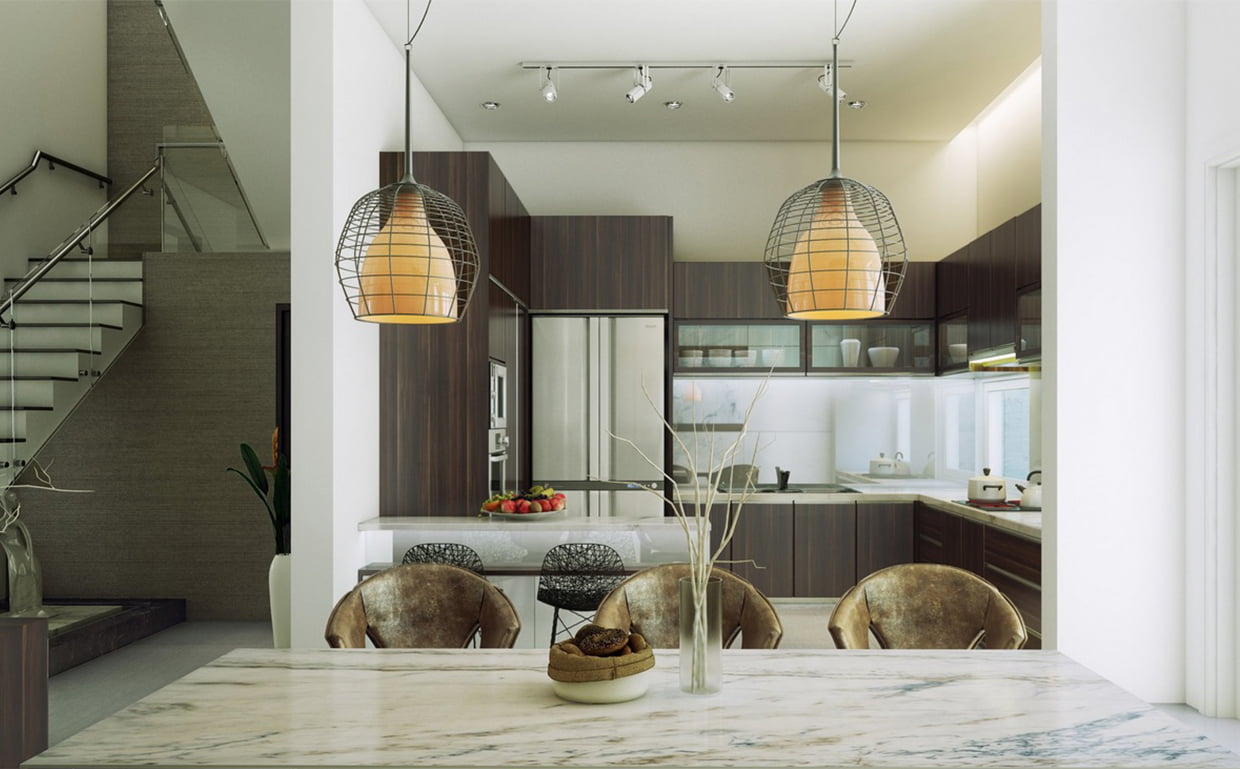
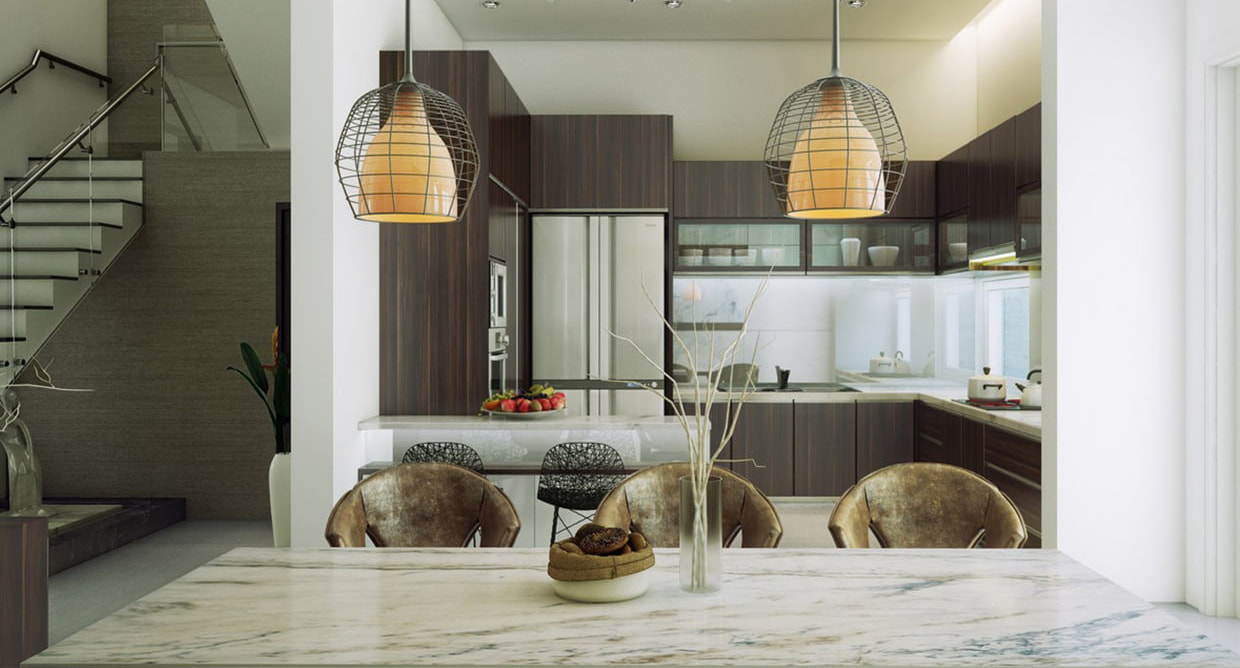
add main slider html, some styles and js code for slider

diff --git a/app/css/style.min.css b/app/css/style.min.css
@@ -1,1 +1,1 @@
-/*! normalize.css v8.0.1 | MIT License | github.com/necolas/normalize.css */html{line-height:1.15;-webkit-text-size-adjust:100%}body{margin:0}main{display:block}h1{font-size:2em;margin:0.67em 0}hr{box-sizing:content-box;height:0;overflow:visible}pre{font-family:monospace, monospace;font-size:1em}a{background-color:transparent}abbr[title]{border-bottom:none;text-decoration:underline;-webkit-text-decoration:underline dotted;text-decoration:underline dotted}b,strong{font-weight:bolder}code,kbd,samp{font-family:monospace, monospace;font-size:1em}small{font-size:80%}sub,sup{font-size:75%;line-height:0;position:relative;vertical-align:baseline}sub{bottom:-0.25em}sup{top:-0.5em}img{border-style:none}button,input,optgroup,select,textarea{font-family:inherit;font-size:100%;line-height:1.15;margin:0}button,input{overflow:visible}button,select{text-transform:none}button,[type="button"],[type="reset"],[type="submit"]{-webkit-appearance:button}button::-moz-focus-inner,[type="button"]::-moz-focus-inner,[type="reset"]::-moz-focus-inner,[type="submit"]::-moz-focus-inner{border-style:none;padding:0}button:-moz-focusring,[type="button"]:-moz-focusring,[type="reset"]:-moz-focusring,[type="submit"]:-moz-focusring{outline:1px dotted ButtonText}fieldset{padding:0.35em 0.75em 0.625em}legend{box-sizing:border-box;color:inherit;display:table;max-width:100%;padding:0;white-space:normal}progress{vertical-align:baseline}textarea{overflow:auto}[type="checkbox"],[type="radio"]{box-sizing:border-box;padding:0}[type="number"]::-webkit-inner-spin-button,[type="number"]::-webkit-outer-spin-button{height:auto}[type="search"]{-webkit-appearance:textfield;outline-offset:-2px}[type="search"]::-webkit-search-decoration{-webkit-appearance:none}::-webkit-file-upload-button{-webkit-appearance:button;font:inherit}details{display:block}summary{display:list-item}template{display:none}[hidden]{display:none}.slick-slider{position:relative;display:block;box-sizing:border-box;-webkit-user-select:none;-moz-user-select:none;-ms-user-select:none;user-select:none;-webkit-touch-callout:none;-khtml-user-select:none;touch-action:pan-y;-webkit-tap-highlight-color:transparent}.slick-list{position:relative;display:block;overflow:hidden;margin:0;padding:0}.slick-list:focus{outline:none}.slick-list.dragging{cursor:pointer;cursor:hand}.slick-slider .slick-track,.slick-slider .slick-list{transform:translate3d(0, 0, 0)}.slick-track{position:relative;top:0;left:0;display:block;margin-left:auto;margin-right:auto}.slick-track:before,.slick-track:after{display:table;content:''}.slick-track:after{clear:both}.slick-loading .slick-track{visibility:hidden}.slick-slide{display:none;float:left;height:100%;min-height:1px}[dir='rtl'] .slick-slide{float:right}.slick-slide img{display:block}.slick-slide.slick-loading img{display:none}.slick-slide.dragging img{pointer-events:none}.slick-initialized .slick-slide{display:block}.slick-loading .slick-slide{visibility:hidden}.slick-vertical .slick-slide{display:block;height:auto;border:1px solid transparent}.slick-arrow.slick-hidden{display:none}.mfp-bg{top:0;left:0;width:100%;height:100%;z-index:1042;overflow:hidden;position:fixed;background:#0b0b0b;opacity:0.8}.mfp-wrap{top:0;left:0;width:100%;height:100%;z-index:1043;position:fixed;outline:none !important;-webkit-backface-visibility:hidden}.mfp-container{text-align:center;position:absolute;width:100%;height:100%;left:0;top:0;padding:0 8px;box-sizing:border-box}.mfp-container:before{content:'';display:inline-block;height:100%;vertical-align:middle}.mfp-align-top .mfp-container:before{display:none}.mfp-content{position:relative;display:inline-block;vertical-align:middle;margin:0 auto;text-align:left;z-index:1045}.mfp-inline-holder .mfp-content,.mfp-ajax-holder .mfp-content{width:100%;cursor:auto}.mfp-ajax-cur{cursor:progress}.mfp-zoom-out-cur,.mfp-zoom-out-cur .mfp-image-holder .mfp-close{cursor:zoom-out}.mfp-zoom{cursor:pointer;cursor:zoom-in}.mfp-auto-cursor .mfp-content{cursor:auto}.mfp-close,.mfp-arrow,.mfp-preloader,.mfp-counter{-webkit-user-select:none;-moz-user-select:none;-ms-user-select:none;user-select:none}.mfp-loading.mfp-figure{display:none}.mfp-hide{display:none !important}.mfp-preloader{color:#CCC;position:absolute;top:50%;width:auto;text-align:center;margin-top:-0.8em;left:8px;right:8px;z-index:1044}.mfp-preloader a{color:#CCC}.mfp-preloader a:hover{color:#FFF}.mfp-s-ready .mfp-preloader{display:none}.mfp-s-error .mfp-content{display:none}button.mfp-close,button.mfp-arrow{overflow:visible;cursor:pointer;background:transparent;border:0;-webkit-appearance:none;display:block;outline:none;padding:0;z-index:1046;box-shadow:none;touch-action:manipulation}button::-moz-focus-inner{padding:0;border:0}.mfp-close{width:44px;height:44px;line-height:44px;position:absolute;right:0;top:0;text-decoration:none;text-align:center;opacity:0.65;padding:0 0 18px 10px;color:#FFF;font-style:normal;font-size:28px;font-family:Arial, Baskerville, monospace}.mfp-close:hover,.mfp-close:focus{opacity:1}.mfp-close:active{top:1px}.mfp-close-btn-in .mfp-close{color:#333}.mfp-image-holder .mfp-close,.mfp-iframe-holder .mfp-close{color:#FFF;right:-6px;text-align:right;padding-right:6px;width:100%}.mfp-counter{position:absolute;top:0;right:0;color:#CCC;font-size:12px;line-height:18px;white-space:nowrap}.mfp-arrow{position:absolute;opacity:0.65;margin:0;top:50%;margin-top:-55px;padding:0;width:90px;height:110px;-webkit-tap-highlight-color:transparent}.mfp-arrow:active{margin-top:-54px}.mfp-arrow:hover,.mfp-arrow:focus{opacity:1}.mfp-arrow:before,.mfp-arrow:after{content:'';display:block;width:0;height:0;position:absolute;left:0;top:0;margin-top:35px;margin-left:35px;border:medium inset transparent}.mfp-arrow:after{border-top-width:13px;border-bottom-width:13px;top:8px}.mfp-arrow:before{border-top-width:21px;border-bottom-width:21px;opacity:0.7}.mfp-arrow-left{left:0}.mfp-arrow-left:after{border-right:17px solid #FFF;margin-left:31px}.mfp-arrow-left:before{margin-left:25px;border-right:27px solid #3F3F3F}.mfp-arrow-right{right:0}.mfp-arrow-right:after{border-left:17px solid #FFF;margin-left:39px}.mfp-arrow-right:before{border-left:27px solid #3F3F3F}.mfp-iframe-holder{padding-top:40px;padding-bottom:40px}.mfp-iframe-holder .mfp-content{line-height:0;width:100%;max-width:900px}.mfp-iframe-holder .mfp-close{top:-40px}.mfp-iframe-scaler{width:100%;height:0;overflow:hidden;padding-top:56.25%}.mfp-iframe-scaler iframe{position:absolute;display:block;top:0;left:0;width:100%;height:100%;box-shadow:0 0 8px rgba(0,0,0,0.6);background:#000}img.mfp-img{width:auto;max-width:100%;height:auto;display:block;line-height:0;box-sizing:border-box;padding:40px 0 40px;margin:0 auto}.mfp-figure{line-height:0}.mfp-figure:after{content:'';position:absolute;left:0;top:40px;bottom:40px;display:block;right:0;width:auto;height:auto;z-index:-1;box-shadow:0 0 8px rgba(0,0,0,0.6);background:#444}.mfp-figure small{color:#BDBDBD;display:block;font-size:12px;line-height:14px}.mfp-figure figure{margin:0}.mfp-bottom-bar{margin-top:-36px;position:absolute;top:100%;left:0;width:100%;cursor:auto}.mfp-title{text-align:left;line-height:18px;color:#F3F3F3;word-wrap:break-word;padding-right:36px}.mfp-image-holder .mfp-content{max-width:100%}.mfp-gallery .mfp-image-holder .mfp-figure{cursor:pointer}@media screen and (max-width: 800px) and (orientation: landscape), screen and (max-height: 300px){.mfp-img-mobile .mfp-image-holder{padding-left:0;padding-right:0}.mfp-img-mobile img.mfp-img{padding:0}.mfp-img-mobile .mfp-figure:after{top:0;bottom:0}.mfp-img-mobile .mfp-figure small{display:inline;margin-left:5px}.mfp-img-mobile .mfp-bottom-bar{background:rgba(0,0,0,0.6);bottom:0;margin:0;top:auto;padding:3px 5px;position:fixed;box-sizing:border-box}.mfp-img-mobile .mfp-bottom-bar:empty{padding:0}.mfp-img-mobile .mfp-counter{right:5px;top:3px}.mfp-img-mobile .mfp-close{top:0;right:0;width:35px;height:35px;line-height:35px;background:rgba(0,0,0,0.6);position:fixed;text-align:center;padding:0}}@media all and (max-width: 900px){.mfp-arrow{transform:scale(0.75)}.mfp-arrow-left{transform-origin:0}.mfp-arrow-right{transform-origin:100%}.mfp-container{padding-left:6px;padding-right:6px}}html{box-sizing:border-box}*,*::before,*::after{box-sizing:inherit}body{font-family:"Open Sans",sans-serif;font-weight:400;font-size:12px;line-height:18px;background-color:#353436;color:#fff;position:relative}a{display:inline-block;text-decoration:none;color:#fff}.container{max-width:1240px;margin:0 auto;padding:0 20px}.btn{border:1px solid transparent;background-color:#000;padding:4px 20px;margin:5px 0;width:100%;cursor:pointer;font-size:18px;line-height:24px;text-transform:uppercase;color:#fff;transition:all 0.2s}.btn:hover{border:1px solid #e2d1a6;background-color:#e2d1a6;color:#fff}.main__wrapper{height:100vh}.header__wrapper{position:relative;display:flex;justify-content:space-between;align-items:center;min-height:130px;height:100%}.header__btn{position:absolute;top:0;right:0;padding:0;font-size:14px;line-height:24px;text-transform:uppercase;cursor:pointer;background-color:transparent;border:none;color:#fff}.header__btn::after{content:"";display:inline-block;width:9px;height:13px;background-image:url("../img/lock.png");background-position:center;background-size:cover;background-repeat:no-repeat;margin-left:10px}.header__btn:focus{outline-color:#fff}.header__btn:active{outline-color:#fff}.header__btn:hover{text-decoration:underline}.header__nav{align-self:flex-end}.nav-list{margin:0;padding:0;list-style:none;display:flex}.nav-list__sub-section{margin:0;padding:0;list-style:none;display:none}.nav-list li+li{margin-left:27px}.nav-list__item{position:relative;padding:10px 0;font-size:18px;line-height:24px;color:#fff;text-transform:uppercase;transition:all 0.2s;margin-bottom:12px}.nav-list__item--active{font-weight:bold;color:#e2d1a6}.nav-list__item:hover{color:#e2d1a6}.footer{padding:30px 0 12px 0}.footer__top{max-width:930px;width:100%;margin:0 auto;display:flex;justify-content:space-between;flex-wrap:wrap;padding-bottom:15px}.footer__item{max-width:210px;width:100%;padding:5px}.footer__item-title{font-family:"Playfair Display",serif;font-size:14px;line-height:24px;font-weight:bold;text-transform:uppercase;margin-bottom:16px}.footer__item-text{font-size:12px;line-height:18px}.footer__item--form{max-width:194px}.footer__form-input{width:100%;margin-bottom:12px;font-family:"Open Sans",sans-serif;font-size:14px;line-height:18px;padding:7px 6px;border:none}.footer__form-label{width:100%;font-size:10px;line-height:12px;display:flex}.footer__form-check{margin-right:8px}.footer__bottom{display:flex;justify-content:space-between}.footer__social-link{margin-right:10px}.footer__social-link:hover{transform:scale(1.1)}.contacts-list{margin:0;padding:0;list-style:none;display:flex;flex-wrap:wrap}.contacts-list__item{margin-right:15px;font-size:12px;line-height:24px}.lang-list{margin:0;padding:0;list-style:none;display:flex}.lang-list__item{padding-left:10px}.lang-list__item:hover{text-decoration:underline}.lang-list li+li{margin-left:10px;border-left:1px solid #fff}
+/*! normalize.css v8.0.1 | MIT License | github.com/necolas/normalize.css */html{line-height:1.15;-webkit-text-size-adjust:100%}body{margin:0}main{display:block}h1{font-size:2em;margin:0.67em 0}hr{box-sizing:content-box;height:0;overflow:visible}pre{font-family:monospace, monospace;font-size:1em}a{background-color:transparent}abbr[title]{border-bottom:none;text-decoration:underline;-webkit-text-decoration:underline dotted;text-decoration:underline dotted}b,strong{font-weight:bolder}code,kbd,samp{font-family:monospace, monospace;font-size:1em}small{font-size:80%}sub,sup{font-size:75%;line-height:0;position:relative;vertical-align:baseline}sub{bottom:-0.25em}sup{top:-0.5em}img{border-style:none}button,input,optgroup,select,textarea{font-family:inherit;font-size:100%;line-height:1.15;margin:0}button,input{overflow:visible}button,select{text-transform:none}button,[type="button"],[type="reset"],[type="submit"]{-webkit-appearance:button}button::-moz-focus-inner,[type="button"]::-moz-focus-inner,[type="reset"]::-moz-focus-inner,[type="submit"]::-moz-focus-inner{border-style:none;padding:0}button:-moz-focusring,[type="button"]:-moz-focusring,[type="reset"]:-moz-focusring,[type="submit"]:-moz-focusring{outline:1px dotted ButtonText}fieldset{padding:0.35em 0.75em 0.625em}legend{box-sizing:border-box;color:inherit;display:table;max-width:100%;padding:0;white-space:normal}progress{vertical-align:baseline}textarea{overflow:auto}[type="checkbox"],[type="radio"]{box-sizing:border-box;padding:0}[type="number"]::-webkit-inner-spin-button,[type="number"]::-webkit-outer-spin-button{height:auto}[type="search"]{-webkit-appearance:textfield;outline-offset:-2px}[type="search"]::-webkit-search-decoration{-webkit-appearance:none}::-webkit-file-upload-button{-webkit-appearance:button;font:inherit}details{display:block}summary{display:list-item}template{display:none}[hidden]{display:none}.slick-slider{position:relative;display:block;box-sizing:border-box;-webkit-user-select:none;-moz-user-select:none;-ms-user-select:none;user-select:none;-webkit-touch-callout:none;-khtml-user-select:none;touch-action:pan-y;-webkit-tap-highlight-color:transparent}.slick-list{position:relative;display:block;overflow:hidden;margin:0;padding:0}.slick-list:focus{outline:none}.slick-list.dragging{cursor:pointer;cursor:hand}.slick-slider .slick-track,.slick-slider .slick-list{transform:translate3d(0, 0, 0)}.slick-track{position:relative;top:0;left:0;display:block;margin-left:auto;margin-right:auto}.slick-track:before,.slick-track:after{display:table;content:''}.slick-track:after{clear:both}.slick-loading .slick-track{visibility:hidden}.slick-slide{display:none;float:left;height:100%;min-height:1px}[dir='rtl'] .slick-slide{float:right}.slick-slide img{display:block}.slick-slide.slick-loading img{display:none}.slick-slide.dragging img{pointer-events:none}.slick-initialized .slick-slide{display:block}.slick-loading .slick-slide{visibility:hidden}.slick-vertical .slick-slide{display:block;height:auto;border:1px solid transparent}.slick-arrow.slick-hidden{display:none}.mfp-bg{top:0;left:0;width:100%;height:100%;z-index:1042;overflow:hidden;position:fixed;background:#0b0b0b;opacity:0.8}.mfp-wrap{top:0;left:0;width:100%;height:100%;z-index:1043;position:fixed;outline:none !important;-webkit-backface-visibility:hidden}.mfp-container{text-align:center;position:absolute;width:100%;height:100%;left:0;top:0;padding:0 8px;box-sizing:border-box}.mfp-container:before{content:'';display:inline-block;height:100%;vertical-align:middle}.mfp-align-top .mfp-container:before{display:none}.mfp-content{position:relative;display:inline-block;vertical-align:middle;margin:0 auto;text-align:left;z-index:1045}.mfp-inline-holder .mfp-content,.mfp-ajax-holder .mfp-content{width:100%;cursor:auto}.mfp-ajax-cur{cursor:progress}.mfp-zoom-out-cur,.mfp-zoom-out-cur .mfp-image-holder .mfp-close{cursor:zoom-out}.mfp-zoom{cursor:pointer;cursor:zoom-in}.mfp-auto-cursor .mfp-content{cursor:auto}.mfp-close,.mfp-arrow,.mfp-preloader,.mfp-counter{-webkit-user-select:none;-moz-user-select:none;-ms-user-select:none;user-select:none}.mfp-loading.mfp-figure{display:none}.mfp-hide{display:none !important}.mfp-preloader{color:#CCC;position:absolute;top:50%;width:auto;text-align:center;margin-top:-0.8em;left:8px;right:8px;z-index:1044}.mfp-preloader a{color:#CCC}.mfp-preloader a:hover{color:#FFF}.mfp-s-ready .mfp-preloader{display:none}.mfp-s-error .mfp-content{display:none}button.mfp-close,button.mfp-arrow{overflow:visible;cursor:pointer;background:transparent;border:0;-webkit-appearance:none;display:block;outline:none;padding:0;z-index:1046;box-shadow:none;touch-action:manipulation}button::-moz-focus-inner{padding:0;border:0}.mfp-close{width:44px;height:44px;line-height:44px;position:absolute;right:0;top:0;text-decoration:none;text-align:center;opacity:0.65;padding:0 0 18px 10px;color:#FFF;font-style:normal;font-size:28px;font-family:Arial, Baskerville, monospace}.mfp-close:hover,.mfp-close:focus{opacity:1}.mfp-close:active{top:1px}.mfp-close-btn-in .mfp-close{color:#333}.mfp-image-holder .mfp-close,.mfp-iframe-holder .mfp-close{color:#FFF;right:-6px;text-align:right;padding-right:6px;width:100%}.mfp-counter{position:absolute;top:0;right:0;color:#CCC;font-size:12px;line-height:18px;white-space:nowrap}.mfp-arrow{position:absolute;opacity:0.65;margin:0;top:50%;margin-top:-55px;padding:0;width:90px;height:110px;-webkit-tap-highlight-color:transparent}.mfp-arrow:active{margin-top:-54px}.mfp-arrow:hover,.mfp-arrow:focus{opacity:1}.mfp-arrow:before,.mfp-arrow:after{content:'';display:block;width:0;height:0;position:absolute;left:0;top:0;margin-top:35px;margin-left:35px;border:medium inset transparent}.mfp-arrow:after{border-top-width:13px;border-bottom-width:13px;top:8px}.mfp-arrow:before{border-top-width:21px;border-bottom-width:21px;opacity:0.7}.mfp-arrow-left{left:0}.mfp-arrow-left:after{border-right:17px solid #FFF;margin-left:31px}.mfp-arrow-left:before{margin-left:25px;border-right:27px solid #3F3F3F}.mfp-arrow-right{right:0}.mfp-arrow-right:after{border-left:17px solid #FFF;margin-left:39px}.mfp-arrow-right:before{border-left:27px solid #3F3F3F}.mfp-iframe-holder{padding-top:40px;padding-bottom:40px}.mfp-iframe-holder .mfp-content{line-height:0;width:100%;max-width:900px}.mfp-iframe-holder .mfp-close{top:-40px}.mfp-iframe-scaler{width:100%;height:0;overflow:hidden;padding-top:56.25%}.mfp-iframe-scaler iframe{position:absolute;display:block;top:0;left:0;width:100%;height:100%;box-shadow:0 0 8px rgba(0,0,0,0.6);background:#000}img.mfp-img{width:auto;max-width:100%;height:auto;display:block;line-height:0;box-sizing:border-box;padding:40px 0 40px;margin:0 auto}.mfp-figure{line-height:0}.mfp-figure:after{content:'';position:absolute;left:0;top:40px;bottom:40px;display:block;right:0;width:auto;height:auto;z-index:-1;box-shadow:0 0 8px rgba(0,0,0,0.6);background:#444}.mfp-figure small{color:#BDBDBD;display:block;font-size:12px;line-height:14px}.mfp-figure figure{margin:0}.mfp-bottom-bar{margin-top:-36px;position:absolute;top:100%;left:0;width:100%;cursor:auto}.mfp-title{text-align:left;line-height:18px;color:#F3F3F3;word-wrap:break-word;padding-right:36px}.mfp-image-holder .mfp-content{max-width:100%}.mfp-gallery .mfp-image-holder .mfp-figure{cursor:pointer}@media screen and (max-width: 800px) and (orientation: landscape), screen and (max-height: 300px){.mfp-img-mobile .mfp-image-holder{padding-left:0;padding-right:0}.mfp-img-mobile img.mfp-img{padding:0}.mfp-img-mobile .mfp-figure:after{top:0;bottom:0}.mfp-img-mobile .mfp-figure small{display:inline;margin-left:5px}.mfp-img-mobile .mfp-bottom-bar{background:rgba(0,0,0,0.6);bottom:0;margin:0;top:auto;padding:3px 5px;position:fixed;box-sizing:border-box}.mfp-img-mobile .mfp-bottom-bar:empty{padding:0}.mfp-img-mobile .mfp-counter{right:5px;top:3px}.mfp-img-mobile .mfp-close{top:0;right:0;width:35px;height:35px;line-height:35px;background:rgba(0,0,0,0.6);position:fixed;text-align:center;padding:0}}@media all and (max-width: 900px){.mfp-arrow{transform:scale(0.75)}.mfp-arrow-left{transform-origin:0}.mfp-arrow-right{transform-origin:100%}.mfp-container{padding-left:6px;padding-right:6px}}html{box-sizing:border-box}*,*::before,*::after{box-sizing:inherit}body{font-family:"Open Sans",sans-serif;font-weight:400;font-size:12px;line-height:18px;background-color:#353436;color:#fff;position:relative}a{display:inline-block;text-decoration:none;color:#fff}img{display:block;max-width:100%;height:auto}.visually-hidden{position:absolute;width:1px;height:1px;margin:-1px;padding:0;overflow:hidden;white-space:nowrap;border:0;clip:rect(0 0 0 0);-webkit-clip-path:inset(100%);clip-path:inset(100%)}.container{max-width:1240px;margin:0 auto;padding:0 20px}.container--slider{padding:0}.btn{border:1px solid transparent;background-color:#000;padding:4px 20px;margin:5px 0;width:100%;cursor:pointer;font-size:18px;line-height:24px;text-transform:uppercase;color:#fff;transition:all 0.2s}.btn:hover{border:1px solid #e2d1a6;background-color:#e2d1a6;color:#fff}.main__wrapper{height:100vh;overflow:hidden}.header__wrapper{position:relative;display:flex;justify-content:space-between;align-items:center;min-height:130px;height:100%}.header__btn{position:absolute;top:0;right:0;padding:0;font-size:14px;line-height:24px;text-transform:uppercase;cursor:pointer;background-color:transparent;border:none;color:#fff}.header__btn::after{content:"";display:inline-block;width:9px;height:13px;background-image:url("../img/lock.png");background-position:center;background-size:cover;background-repeat:no-repeat;margin-left:10px}.header__btn:focus{outline-color:#fff}.header__btn:active{outline-color:#fff}.header__btn:hover{text-decoration:underline}.header__nav{align-self:flex-end}.nav-list{margin:0;padding:0;list-style:none;display:flex}.nav-list__sub-section{margin:0;padding:0;list-style:none;display:none}.nav-list li+li{margin-left:27px}.nav-list__item{position:relative;padding:10px 0;font-size:18px;line-height:24px;color:#fff;text-transform:uppercase;transition:all 0.2s;margin-bottom:12px}.nav-list__item--active{font-weight:bold;color:#e2d1a6}.nav-list__item:hover{color:#e2d1a6}.main__slider-item{position:relative}.main__slider-box{position:absolute;top:50%;transform:translateY(-50%);right:0;max-width:510px;width:100%;min-height:140px;background-color:rgba(255,255,255,0.85);color:#000;padding:10px 27px}.main__slider-title{font-family:"Playfair Display",serif;font-weight:bold;font-style:italic;font-size:30px;line-height:34px;text-transform:uppercase;margin:5px 0 24px 0}.main__slider-text{font-size:18px;line-height:24px;margin:10px 0}.main__slider .slick-dots{margin:0;padding:0;list-style:none;position:absolute;top:0;display:flex}.main__slider .slick-dots .slick-active button{background-color:#e2d1a6}.main__slider .slick-dots button{border:1px solid black;background-color:#fff;font-size:0;width:14px;height:14px;border-radius:50%;padding:0;cursor:pointer;margin:5px}.footer{padding:30px 0 12px 0}.footer__top{max-width:930px;width:100%;margin:0 auto;display:flex;justify-content:space-between;flex-wrap:wrap;padding-bottom:15px}.footer__item{max-width:210px;width:100%;padding:5px}.footer__item-title{font-family:"Playfair Display",serif;font-size:14px;line-height:24px;font-weight:bold;text-transform:uppercase;margin-bottom:16px}.footer__item-text{font-size:12px;line-height:18px}.footer__item--form{max-width:194px}.footer__form-input{width:100%;margin-bottom:12px;font-family:"Open Sans",sans-serif;font-size:14px;line-height:18px;padding:6px 5px;border:2px solid transparent}.footer__form-input:focus{border:2px solid #e2d1a6}.footer__form-input:active{border:2px solid #e2d1a6}.footer__form-label{width:100%;font-size:10px;line-height:12px;display:flex}.footer__form-check{margin-right:8px}.footer__bottom{display:flex;justify-content:space-between}.footer__social-link{margin-right:10px}.footer__social-link:hover{transform:scale(1.1)}.contacts-list{margin:0;padding:0;list-style:none;display:flex;flex-wrap:wrap}.contacts-list__item{margin-right:15px;font-size:12px;line-height:24px}.lang-list{margin:0;padding:0;list-style:none;display:flex}.lang-list__item{padding-left:10px}.lang-list__item:hover{text-decoration:underline}.lang-list li+li{margin-left:10px;border-left:1px solid #fff}

diff --git a/app/index.html b/app/index.html
@@ -42,7 +42,22 @@
       </div>
     </header>
 
-    <main>
+    <main class="main">
+      <h1 class="visually-hidden">Lampadari</h1>
+      <div class="container container--slider">
+        <div class="main__slider">
+          <div class="main__slider-item">
+            <img src="./img/room-main-slide.jpg" alt="room foto">
+            <div class="main__slider-box">
+              <h2 class="main__slider-title">Lampadari contemporanei</h2>
+              <p class="main__slider-text">Lorem ipsum dolor sit amet, consectetur adipiscing elit, sed do</p>
+            </div>
+          </div>
+          <div class="main__slider-item">your content</div>
+          <div class="main__slider-item">your content</div>
+        </div>
+      </div>
+     
     </main>
   </div>
 
@@ -51,19 +66,19 @@
     <div class="container">
       <div class="footer__top">
         <div class="footer__item">
-          <h2 class="footer__item-title">Lampadari made in italy</h2>
+          <h3 class="footer__item-title">Lampadari made in italy</h3>
           <p class="footer__item-text">
             Lorem ipsum dolor sit amet, consectetur adipisicing elit, sed do eiusmod tempor incididunt ut labore et dolore magna aliqua. Ut enim ad minim veniam, quis nostrud exercitation ullamco laboris nisi ut aliquip ex ea  
           </p>
         </div>
         <div class="footer__item">
-          <h2 class="footer__item-title">lampadari artigianali</h2>
+          <h3 class="footer__item-title">lampadari artigianali</h3>
           <p class="footer__item-text">
             Lorem ipsum dolor sit amet, consectetur adipisicing elit, sed do eiusmod tempor incididunt ut labore et dolore magna aliqua. Ut enim ad minim veniam, quis nostrud exercitation ullamco laboris nisi ut aliquip ex ea  
           </p>
         </div>
         <div class="footer__item">
-          <h2 class="footer__item-title">45 anni di esperienza</h2>
+          <h3 class="footer__item-title">45 anni di esperienza</h3>
           <p class="footer__item-text">
             Lorem ipsum dolor sit amet, consectetur adipisicing elit, sed do eiusmod tempor incididunt ut labore et dolore magna aliqua. Ut enim ad minim veniam, quis nostrud exercitation ullamco laboris nisi ut aliquip ex ea  
           </p>

diff --git a/app/scss/style.scss b/app/scss/style.scss
@@ -5,6 +5,7 @@
 
 .main__wrapper {
   height: 100vh;
+  overflow: hidden;
 }
 // HEADER
 
@@ -80,6 +81,59 @@
     }
   }
 }
+//MAIN
+.main__slider{
+  &-item{
+    position: relative;
+  }
+  &-box{
+    position: absolute;
+    top: 50%;
+    transform: translateY(-50%);
+    right: 0;
+    max-width: 510px;
+    width: 100%;
+    min-height: 140px;
+    background-color: rgba(255,255,255,0.85);
+    color: #000;
+    padding: 10px 27px;
+  }
+  &-title{
+    font-family: $ff-second;
+    font-weight: bold;
+    font-style: italic;
+    font-size: 30px;
+    line-height: 34px;
+    text-transform: uppercase;
+    margin: 5px 0 24px 0;
+  }
+  &-text{
+    font-size: 18px;
+    line-height: 24px;
+    margin: 10px 0;
+  }
+  .slick-dots{
+    @include reset-list;
+
+    position: absolute;
+    top: 0;
+    display: flex;
+    .slick-active button{
+      background-color: $secondary-color;
+    }
+    button{
+      border: 1px solid black;
+      background-color: #fff;
+      font-size: 0;
+      width: 14px;
+      height: 14px;
+      border-radius: 50%;
+      padding: 0;
+      cursor: pointer;
+      margin: 5px;
+    }
+  }
+}
 
 // FOOTER
 .footer {
@@ -120,8 +174,10 @@
       font-family: $ff-primary;
       font-size: 14px;
       line-height: 18px;
-      padding: 7px 6px;
-      border: none;
+      padding: 6px 5px;
+      border: 2px solid transparent;
+      &:focus{border: 2px solid $secondary-color}
+      &:active{border: 2px solid $secondary-color}
     }
     &-label{
       width: 100%;

diff --git a/app/scss/_global.scss b/app/scss/_global.scss
@@ -1,30 +1,50 @@
-html{
+html {
   box-sizing: border-box;
 }
 *,
 *::before,
-*::after{
+*::after {
   box-sizing: inherit;
 }
-body{
+body {
   font-family: $ff-primary;
   font-weight: 400;
-  font-size: 12px;  
+  font-size: 12px;
   line-height: 18px;
   background-color: $bg-color;
   color: $text-color;
   position: relative;
 }
-a{
+a {
   display: inline-block;
   text-decoration: none;
   color: $text-color;
 }
-
-.container{
+img {
+  display: block;
+  max-width: 100%;
+  height: auto;
+}
+.visually-hidden {
+  position: absolute;
+  width: 1px;
+  height: 1px;
+  margin: -1px;
+  padding: 0;
+  overflow: hidden;
+  white-space: nowrap;
+  border: 0;
+  clip: rect(0 0 0 0);
+  -webkit-clip-path: inset(100%);
+  clip-path: inset(100%);
+}
+.container {
   max-width: 1240px;
   margin: 0 auto;
   padding: 0 20px;
+  &--slider {
+    padding: 0;
+  }
 }
 
 .btn {
@@ -41,7 +61,7 @@ a{
   transition: all 0.2s;
 }
 .btn:hover {
-  border: 1px solid  $secondary-color;
+  border: 1px solid $secondary-color;
   background-color: $secondary-color;
   color: $text-color;
 }

diff --git a/app/js/main.js b/app/js/main.js
@@ -1,3 +1,9 @@
 $(function () {
-
+  $('.main__slider').slick({
+    infinite: true,
+    speed: 300,
+    slidesToShow: 1,
+    dots: true,
+    arrows: false,
+  });
 });
